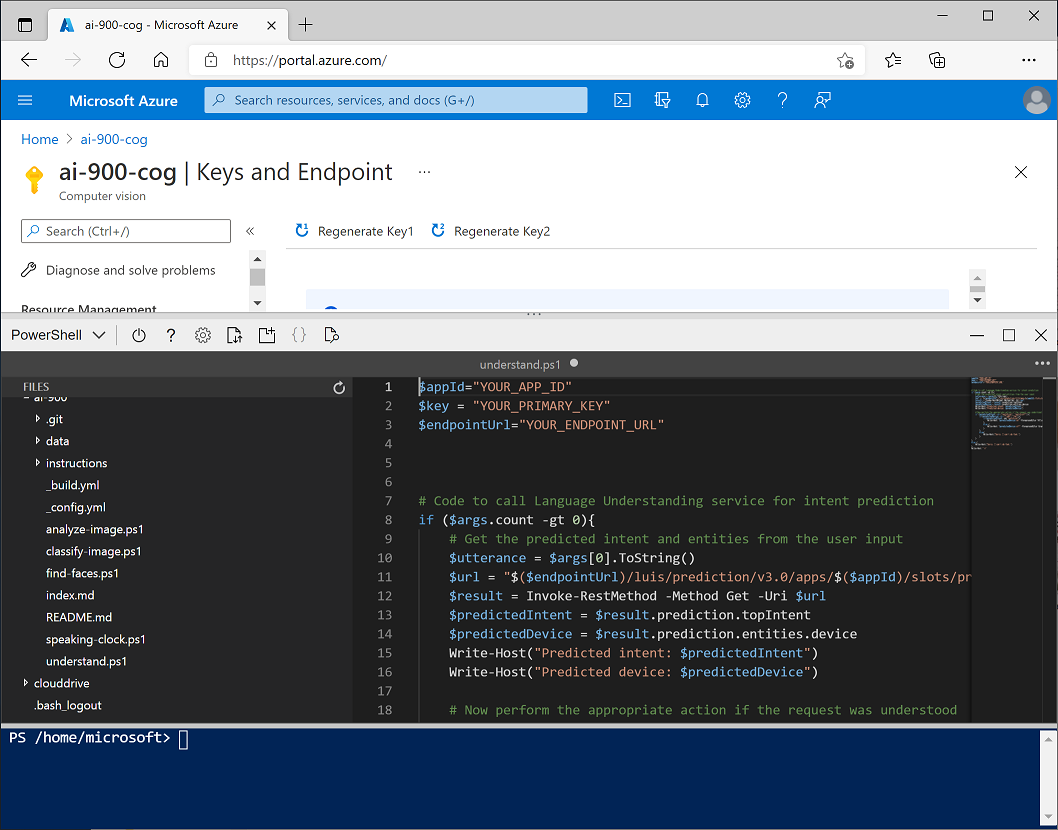
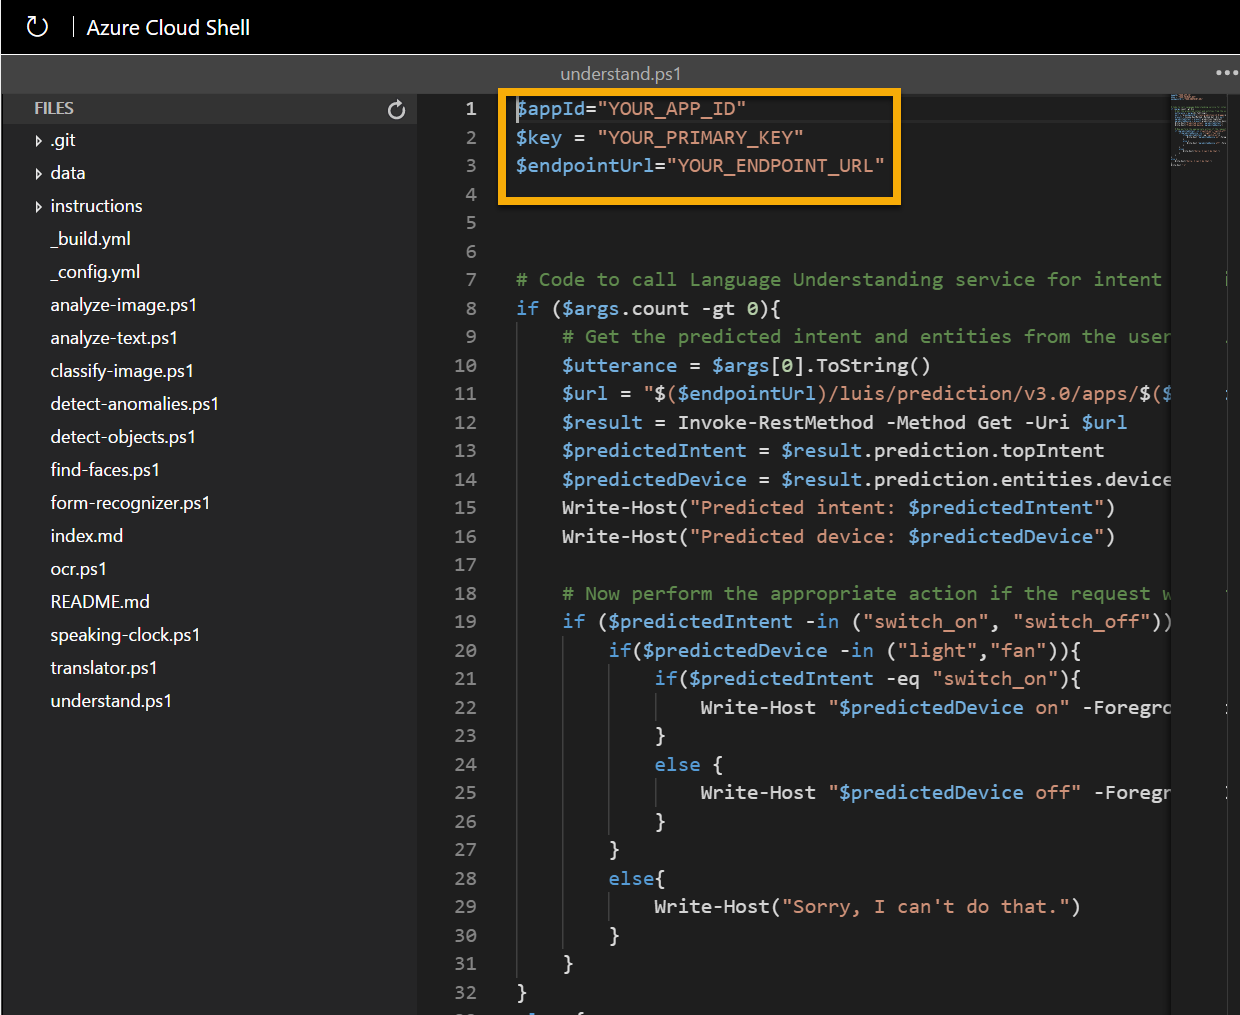
Update lab 10 to sandbox instructions.

diff --git a/instructions/10-language-understanding.md b/instructions/10-language-understanding.md
@@ -82,24 +82,22 @@ To use your trained model in a client application, you must publish it as an end
 
 To consume your language model from a client, we'll use a simple command-line application that runs in the cloud shell provided with your Azure subscription.
 
-### Create a cloud shell
+## Use a cloud shell
 
-First, you'll need a cloud shell in which to run the app. 
-
+To test the capabilities of the Custom Vision service to detect objects in images, we'll use a simple command-line application that runs in the cloud shell.
 > **Note**: For this lab, you will test out an application in a cloud shell environment. When you build your own application, you can use an environment of your choice.
 
-1. Switch to the browser tab containing the Azure portal, and select the [**>_**] (*Cloud Shell*) button at the top of the page to the right of the search box. This opens a Cloud Shell pane at the bottom of the portal, as shown here.
+1. Click the **Activate Sandbox** button at the top of the page. This starts a Cloud Shell instance to your right, as shown here. You may be prompted to review permissions. Click **Accept**. 
 
     ![Azure cloud shell pane](./media/cloud-shell.png)
 
-2. The first time you open the cloud shell, you will be prompted to choose the type of shell you want to use (*Bash* or *PowerShell*). Select **PowerShell**.
-3. If you are prompted to create storage for your cloud shell, ensure your subscription is specified and select **Create storage**. Then wait a minute or so for the storage to be created. Eventually, the cloud shell pane will display a command prompt like this:
+2. When you open the cloud shell, you will need to change the type of shell you are using from *Bash* to *PowerShell*. Type in pwsh and press enter. 
 
-    ![Azure cloud shell PowerShell prompt](./media/powershell-prompt.png)
+    ```
+    pwsh
+    ```
 
-    > **Note**: If you selected *Bash*, or you had previously opened a Bash cloud shell, you can switch to PowerShell by using the drop-down menu at the top left of the cloud shell pane.
-
-### Configure and run a client application
+## Configure and run a client application
 
 Now that you have a cloud shell environment, you can run a simple client application that uses the Computer Vision service to analyze an image.
 
@@ -109,11 +107,15 @@ Now that you have a cloud shell environment, you can run a simple client applica
     git clone https://github.com/GraemeMalcolm/ai-stuff ai-900
     ```
 
-2. The files are downloaded to a folder named **ai-900**. To see all of the files in your cloud shell storage, select the **{ }** (*Open editor*) icon on the bar at the top of the cloud shell pane. This opens an additional editor pane above the cloud shell pane, like this:
+2. The files are downloaded to a folder named **ai-900**. Now we want to see all of the files in your cloud shell storage and work with them. Type the following command into the shell: 
 
-    ![Azure cloud shell editor](./media/editor-pane.png)
+     ```
+    code .
+    ```
 
-3. Use the separator bar above the editor pane to resize it so you can see more clearly, and then in the **Files** pane on the left, expand **ai-900** and select **understand.ps1**. This file contains some code that uses your Custom Vision model to classify an image, as shown here:
+    Notice how this opens up an editor. 
+
+3. In the **Files** pane on the left, expand **ai-900** and select **understand.ps1**. This file contains some code that uses your Custom Vision model to classify an image, as shown here:
 
     ![The editor containing code to use a Language Understanding app](./media/understand-code.png)
 
